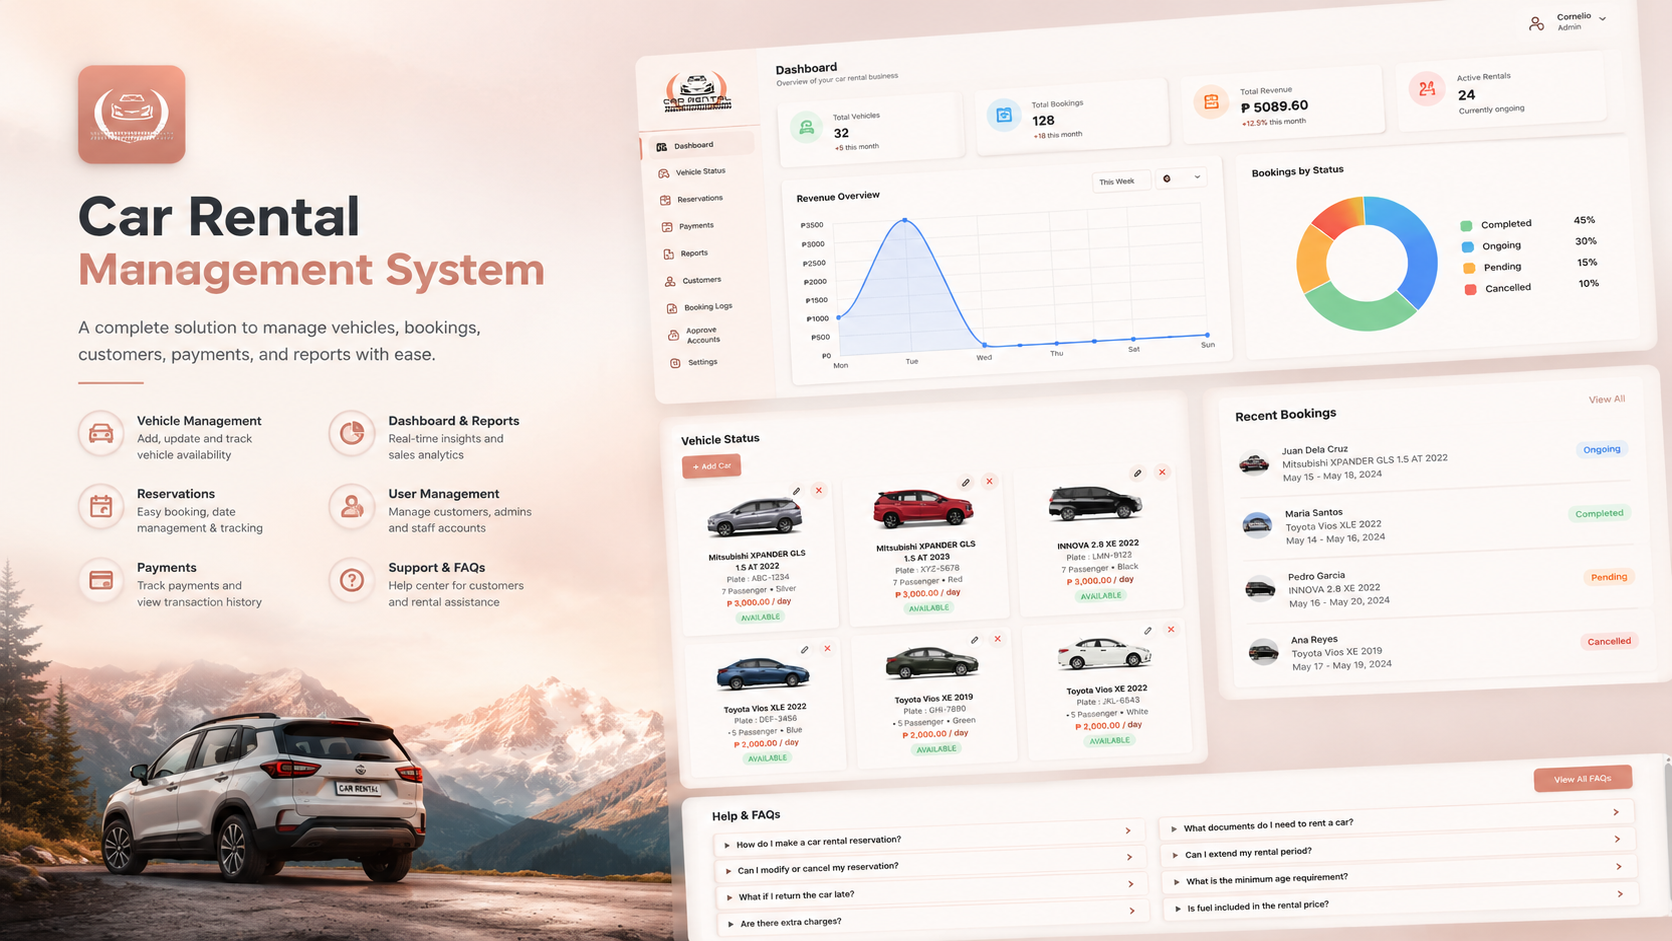
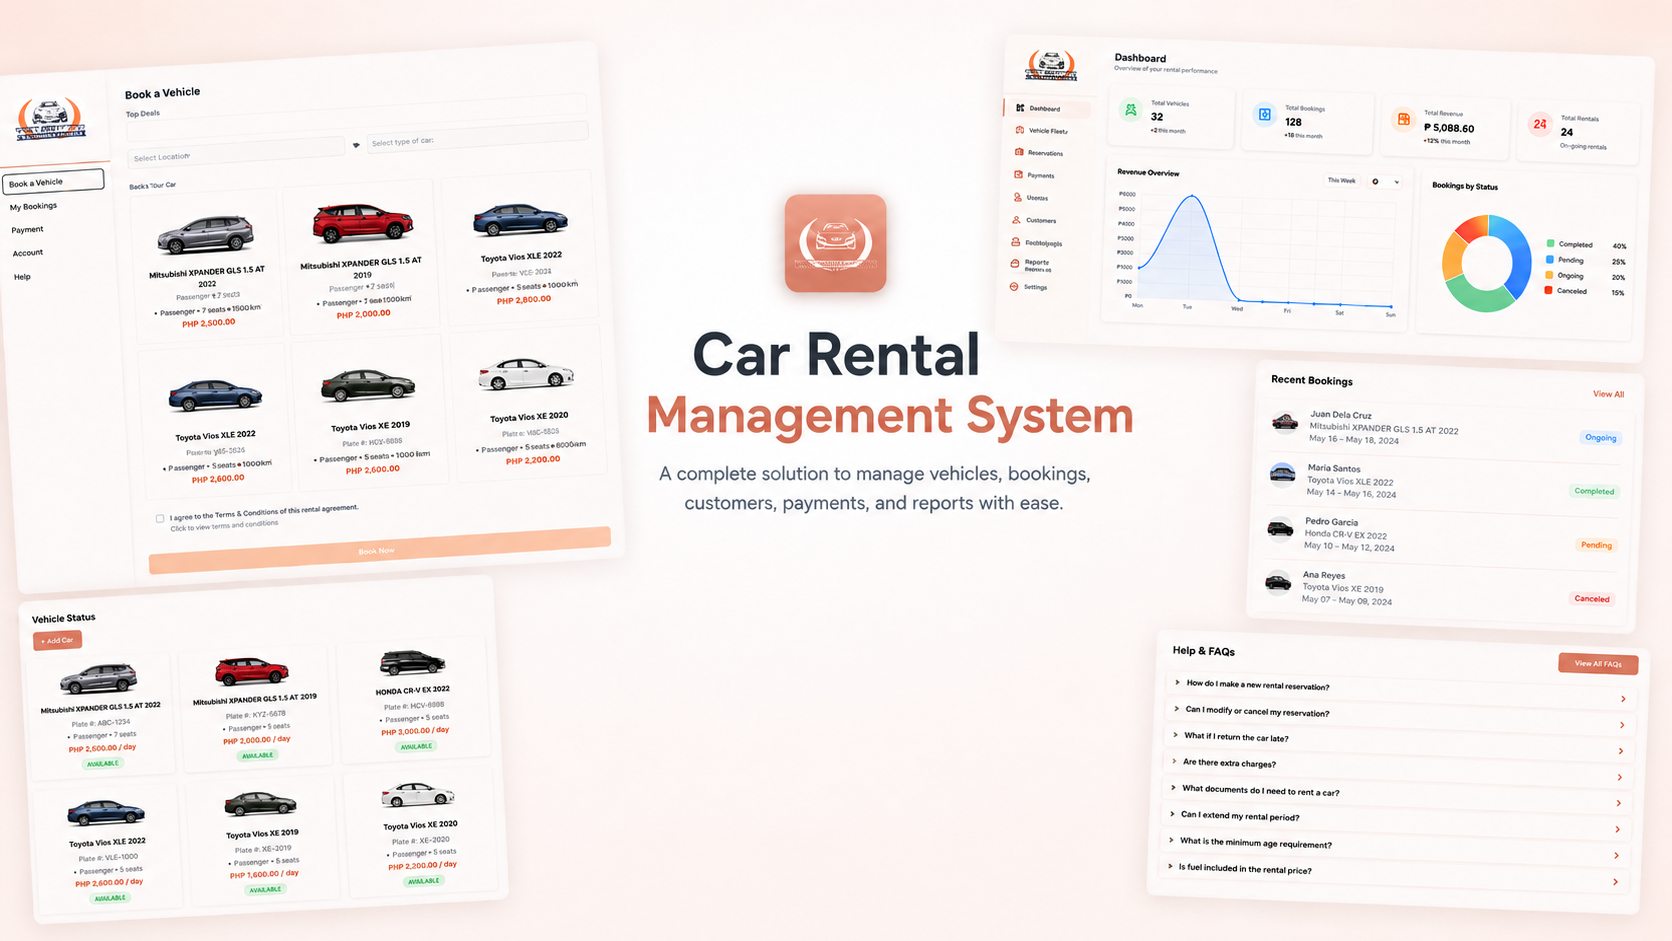
project details adjusted

diff --git a/components/cards/project-card.tsx b/components/cards/project-card.tsx
@@ -81,6 +81,23 @@ export const ProjectCard = ({ project }: ProjectCardProps) => {
   const canOpenPreview =
     hasExpandableDocumentPreview || isSystemFlowchartProject;
   const activeFlowchartPreview = project.flowchartPreviews?.[activeFlowchartIndex];
+  const usesLandscapePreview = project.previewLayout === "landscape";
+  const previewFrameClassName = cn(
+    isSystemFlowchartProject
+      ? "min-h-[20rem] w-full flex-1 lg:min-h-[24rem]"
+      : usesExpandedPreviewSurface
+        ? "aspect-[3/4] w-full"
+        : usesLandscapePreview
+          ? "aspect-video w-full max-w-none"
+          : "aspect-[3/4] w-36 sm:w-40",
+  );
+  const previewImageClassName = cn(
+    isSystemFlowchartProject
+      ? "object-contain p-3"
+      : usesLandscapePreview
+        ? "object-cover object-center"
+        : "object-cover object-top",
+  );
 
   const openDocumentOverlay = (src: string, title: string) => {
     setActiveDocument({ src, title });
@@ -162,7 +179,11 @@ export const ProjectCard = ({ project }: ProjectCardProps) => {
       >
         <article
           aria-labelledby={`${project.id}-title`}
-          className="lg:grid lg:grid-cols-[minmax(15rem,18rem)_minmax(0,1fr)]"
+          className={cn(
+            "lg:grid lg:grid-cols-[minmax(15rem,18rem)_minmax(0,1fr)]",
+            usesLandscapePreview &&
+              "lg:grid-cols-[minmax(24rem,34rem)_minmax(0,1fr)] xl:grid-cols-[minmax(30rem,42rem)_minmax(0,1fr)]",
+          )}
         >
           {/* ── Preview column ── */}
           <div className="flex flex-col border-b border-border/40 bg-muted/20 lg:border-b-0 lg:border-r lg:border-border/40">
@@ -181,6 +202,7 @@ export const ProjectCard = ({ project }: ProjectCardProps) => {
                   className={cn(
                     "flex flex-1 items-stretch justify-stretch px-6 py-8",
                     usesExpandedPreviewSurface && "px-4 py-4",
+                    usesLandscapePreview && "px-3 py-4 sm:px-4 lg:px-4",
                   )}
                 >
                   {canOpenPreview ? (
@@ -188,11 +210,7 @@ export const ProjectCard = ({ project }: ProjectCardProps) => {
                       aria-haspopup="dialog"
                       className={cn(
                         "group/thumb relative h-full overflow-hidden rounded-xl border border-border/50 bg-background/80 shadow-md transition-all duration-200 hover:scale-[1.02] hover:border-border/80 hover:shadow-lg focus-visible:outline-none focus-visible:ring-2 focus-visible:ring-primary/50",
-                        isSystemFlowchartProject
-                          ? "min-h-[20rem] w-full flex-1 lg:min-h-[24rem]"
-                          : usesExpandedPreviewSurface
-                            ? "aspect-[3/4] w-full"
-                            : "aspect-[3/4] w-36 sm:w-40",
+                        previewFrameClassName,
                       )}
                       onClick={() => {
                         if (isSystemFlowchartProject) {
@@ -211,14 +229,14 @@ export const ProjectCard = ({ project }: ProjectCardProps) => {
                       isImagePreview(project.previewSrc) ? (
                         <Image
                           alt={project.previewAlt ?? `${project.title} preview`}
-                          className={cn(
-                            isSystemFlowchartProject
-                              ? "object-contain p-3"
-                              : "object-cover object-top",
-                          )}
+                          className={previewImageClassName}
                           fill
                           priority={project.primaryCategory === "user-manuals"}
-                          sizes="(min-width: 640px) 10rem, 9rem"
+                          sizes={
+                            usesLandscapePreview
+                              ? "(min-width: 1280px) 42rem, (min-width: 1024px) 34rem, 100vw"
+                              : "(min-width: 640px) 10rem, 9rem"
+                          }
                           src={project.previewSrc}
                           unoptimized
                         />
@@ -247,25 +265,21 @@ export const ProjectCard = ({ project }: ProjectCardProps) => {
                     <figure
                       className={cn(
                         "relative h-full overflow-hidden rounded-xl border border-border/50 bg-background/80 shadow-md",
-                        isSystemFlowchartProject
-                          ? "min-h-[20rem] w-full flex-1 lg:min-h-[24rem]"
-                          : usesExpandedPreviewSurface
-                            ? "aspect-[3/4] w-full"
-                            : "aspect-[3/4] w-36 sm:w-40",
+                        previewFrameClassName,
                       )}
                     >
                       {project.previewSrc &&
                       isImagePreview(project.previewSrc) ? (
                         <Image
                           alt={project.previewAlt ?? `${project.title} preview`}
-                          className={cn(
-                            isSystemFlowchartProject
-                              ? "object-contain p-3"
-                              : "object-cover object-top",
-                          )}
+                          className={previewImageClassName}
                           fill
                           priority={project.primaryCategory === "user-manuals"}
-                          sizes="(min-width: 640px) 10rem, 9rem"
+                          sizes={
+                            usesLandscapePreview
+                              ? "(min-width: 1280px) 42rem, (min-width: 1024px) 34rem, 100vw"
+                              : "(min-width: 640px) 10rem, 9rem"
+                          }
                           src={project.previewSrc}
                           unoptimized
                         />

diff --git a/constants/portfolio.constants.ts b/constants/portfolio.constants.ts
@@ -811,6 +811,9 @@ export const projects: Project[] = [
     ],
     githubUrl: "https://github.com/Jay-Scripts/CAPSTONE-SMART-POS.git",
     liveDemoUrl: "https://example.com/",
+    previewAlt: "Smart POS system dashboard preview",
+    previewLayout: "landscape",
+    previewSrc: "/project%20preview/smart%20pos.png",
     recognitionPreviewAlt:
       "Recognition certificate for presenting the Smart POS capstone during the CCS Research Colloquium 2026",
     recognitionPreviewNote:
@@ -911,6 +914,9 @@ export const projects: Project[] = [
     ],
     githubUrl: "https://github.com/Jay-Scripts/CAR-RENTAL-SYSTEM-.git",
     liveDemoUrl: "https://example.com/",
+    previewAlt: "Car rental management system dashboard preview",
+    previewLayout: "landscape",
+    previewSrc: "/project%20preview/car%20rental.png",
     systemPreviewAlt:
       "Temporary car rental system preview placeholder while the final walkthrough recording is still in progress",
     systemPreviewNote:

diff --git a/types/portfolio.types.ts b/types/portfolio.types.ts
@@ -60,6 +60,8 @@ export type ProjectResourceLink = {
 
 export type ProjectDocumentLayout = "auto" | "single-page";
 
+export type ProjectPreviewLayout = "portrait" | "landscape";
+
 export type Project = {
   architecture: string[];
   categories: ProjectCategory[];
@@ -73,6 +75,7 @@ export type Project = {
   id: string;
   liveDemoUrl: string;
   previewAlt?: string;
+  previewLayout?: ProjectPreviewLayout;
   previewDialogSrc?: string;
   previewSrc?: string;
   projectBadges?: string[];

diff --git a/components.md b/components.md
@@ -33,7 +33,7 @@
 
 ### `ProjectCard`, `ExperienceCard`
 
-- Purpose: Render recruiter-facing project and experience content as reusable card patterns with stronger semantic structure, including experience-side supporting material previews for certificates, photos, reports, and hover-preview videos.
+- Purpose: Render recruiter-facing project and experience content as reusable card patterns with stronger semantic structure, including flexible portrait or landscape project preview surfaces plus experience-side supporting material previews for certificates, photos, reports, and hover-preview videos.
 - Location: `components/cards/*`
 
 ### `ExperienceProofGallery`
